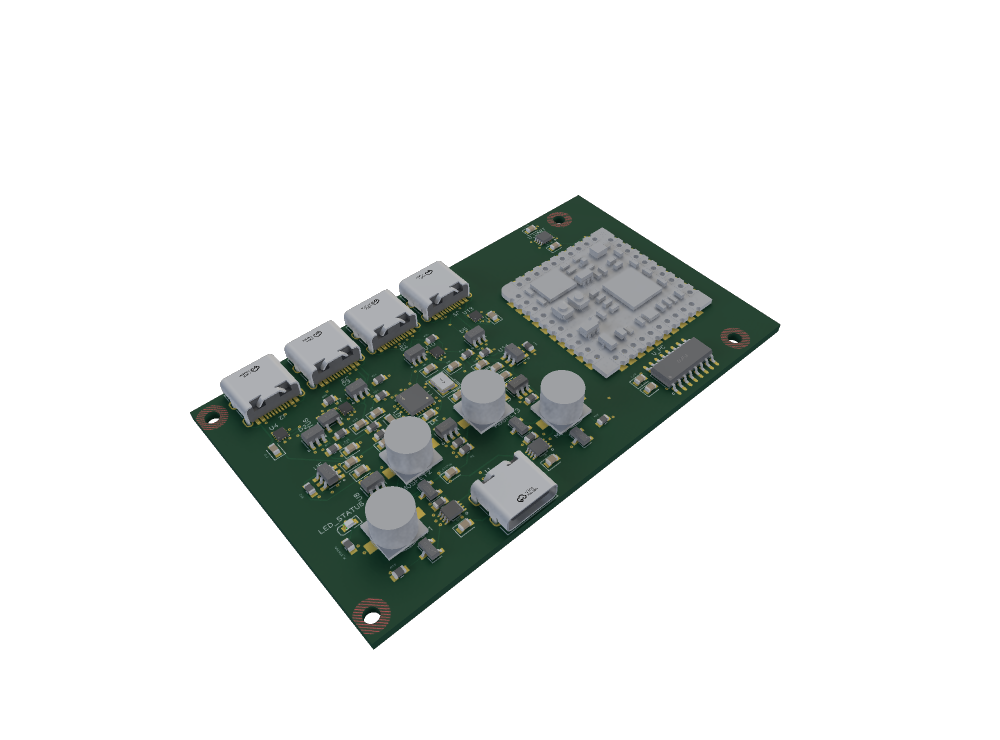
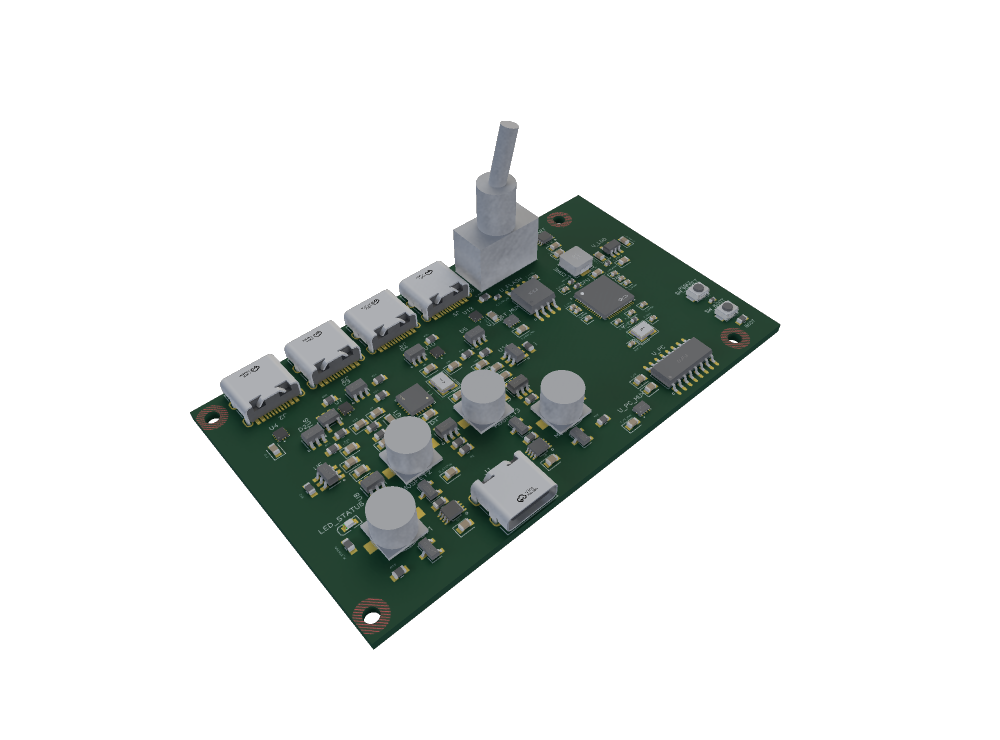
Document the direct-mounted RP2350A, USB mode selector and SWD recovery

Changed region(s): [[0.434, 0.1554, 0.744, 0.5284], [0.62, 0.5284, 0.651, 0.5905]]

diff --git a/documentation/drawings/MountingSheet.tsx b/documentation/drawings/MountingSheet.tsx
@@ -10,6 +10,7 @@ export interface UsbPort {
 }
 
 export interface Mount {
+  controls?: readonly { ref: string, label: string, x: number, y: number, labelX: number, labelY: number }[]
   speakerHeader?: { x: number, y: number }
   title: string
   heightNote?: string
@@ -22,10 +23,11 @@ export interface Mount {
 }
 
 // The populated meshes were exported with both in-plane axes reversed.
-const modelDirectory = "https://raw.githubusercontent.com/tscircuit/devices.tscircuit.com/7f0d761136554d8b8678c0baae401596f2de888a/documentation/drawings/models"
+const originalModels = "7f0d761136554d8b8678c0baae401596f2de888a"
 
 
-export function MountingSheet({mount, modelFile}: {mount: Mount, modelFile: string}) {
+export function MountingSheet({mount, modelFile, modelRevision = originalModels}: {mount: Mount, modelFile: string, modelRevision?: string}) {
+  const modelDirectory = "https://raw.githubusercontent.com/tscircuit/devices.tscircuit.com/" + modelRevision + "/documentation/drawings/models"
   const {width, height, thickness, diameter, holes} = mount
   // For each pitch, pick the extreme holes nearest the top or right dimension.
   const pitch = (axis: 0 | 1) => {
@@ -82,6 +84,11 @@ export function MountingSheet({mount, modelFile}: {mount: Mount, modelFile: stri
             <assembly.drawing.partlabel key={port.ref} name={port.ref} partRefs={[".populated"]}
               text={mount.usbPorts.length === 1 ? port.ref + " USB-C" : port.ref}
               anchor={{x: port.x, y: port.y, z: thickness/2 + 2}} {...portLabel(port)} />
+          ))}
+          {mount.controls?.map(control => (
+            <assembly.drawing.partlabel key={control.ref} name={control.ref} partRefs={[".populated"]}
+              text={control.label} anchor={{x: control.x, y: control.y, z: thickness/2 + 2}}
+              xOffsetFromViewCenter={control.labelX} yOffsetFromViewCenter={control.labelY} />
           ))}
           {mount.speakerHeader && (
             <assembly.drawing.partlabel partRefs={[".populated"]} text="J2 · JST SH"

diff --git a/documentation/drawings/motherboard.circuit.tsx b/documentation/drawings/motherboard.circuit.tsx
@@ -3,11 +3,16 @@ import { MountingSheet } from "./MountingSheet"
 export const mount = {
   "title": "RP2350 USB Motherboard",
   usbPorts: [
-    { ref: "J1", x: -14, y: -22.59, edge: "bottom", role: "Computer / service" },
+    { ref: "J1", x: -14, y: -22.59, edge: "bottom", role: "Console / program" },
     { ref: "J2", x: -30.2, y: 22.59, edge: "top", role: "Downstream" },
     { ref: "J3", x: -19.4, y: 22.59, edge: "top", role: "Downstream" },
     { ref: "J4", x: -8.6, y: 22.59, edge: "top", role: "Downstream" },
     { ref: "J5", x: 2.2, y: 22.59, edge: "top", role: "Downstream" },
+  ],
+  controls: [
+    { ref: "SW_MODE", label: "RUN / PROGRAM", x: 15, y: 18, labelX: 31, labelY: 36 },
+    { ref: "SW_RESET", label: "RESET", x: 35.5, y: -9.5, labelX: 49, labelY: 4 },
+    { ref: "SW_BOOT", label: "BOOT", x: 35.5, y: -15.5, labelX: 49, labelY: -15 },
   ],
   "width": 80,
   "height": 46,
@@ -33,4 +38,4 @@ export const mount = {
   ]
 } as const
 
-export default () => <MountingSheet mount={mount} modelFile="motherboard.glb" />
+export default () => <MountingSheet mount={mount} modelFile="motherboard.glb" modelRevision="1916433e8f7403d418bb59ec0b23961932129cb1" />

diff --git a/documentation/src/components/CadDownloads.tsx b/documentation/src/components/CadDownloads.tsx
@@ -3,7 +3,7 @@ import React from "react"
 const original = "https://github.com/tscircuit/devices.tscircuit.com/releases/download/board-cad-2026-11-21"
 
 export default function CadDownloads({board}: {board: string}) {
-  const release = ["speaker","motherboard","video-player","large-rgb"].includes(board) ? "https://github.com/tscircuit/devices.tscircuit.com/releases/download/top-side-boards-v1" : board === "buzzer" ? "https://github.com/tscircuit/devices.tscircuit.com/releases/download/embedded-boards-v1" : original
+  const release = board === "motherboard" ? "https://github.com/tscircuit/devices.tscircuit.com/releases/download/direct-rp2350a-v1" : ["speaker","video-player","large-rgb"].includes(board) ? "https://github.com/tscircuit/devices.tscircuit.com/releases/download/top-side-boards-v1" : board === "buzzer" ? "https://github.com/tscircuit/devices.tscircuit.com/releases/download/embedded-boards-v1" : original
   return (
     <nav className="cad-downloads" aria-label="Download board CAD">
       <a href={release + "/" + board + ".glb"}>Download GLB</a>
